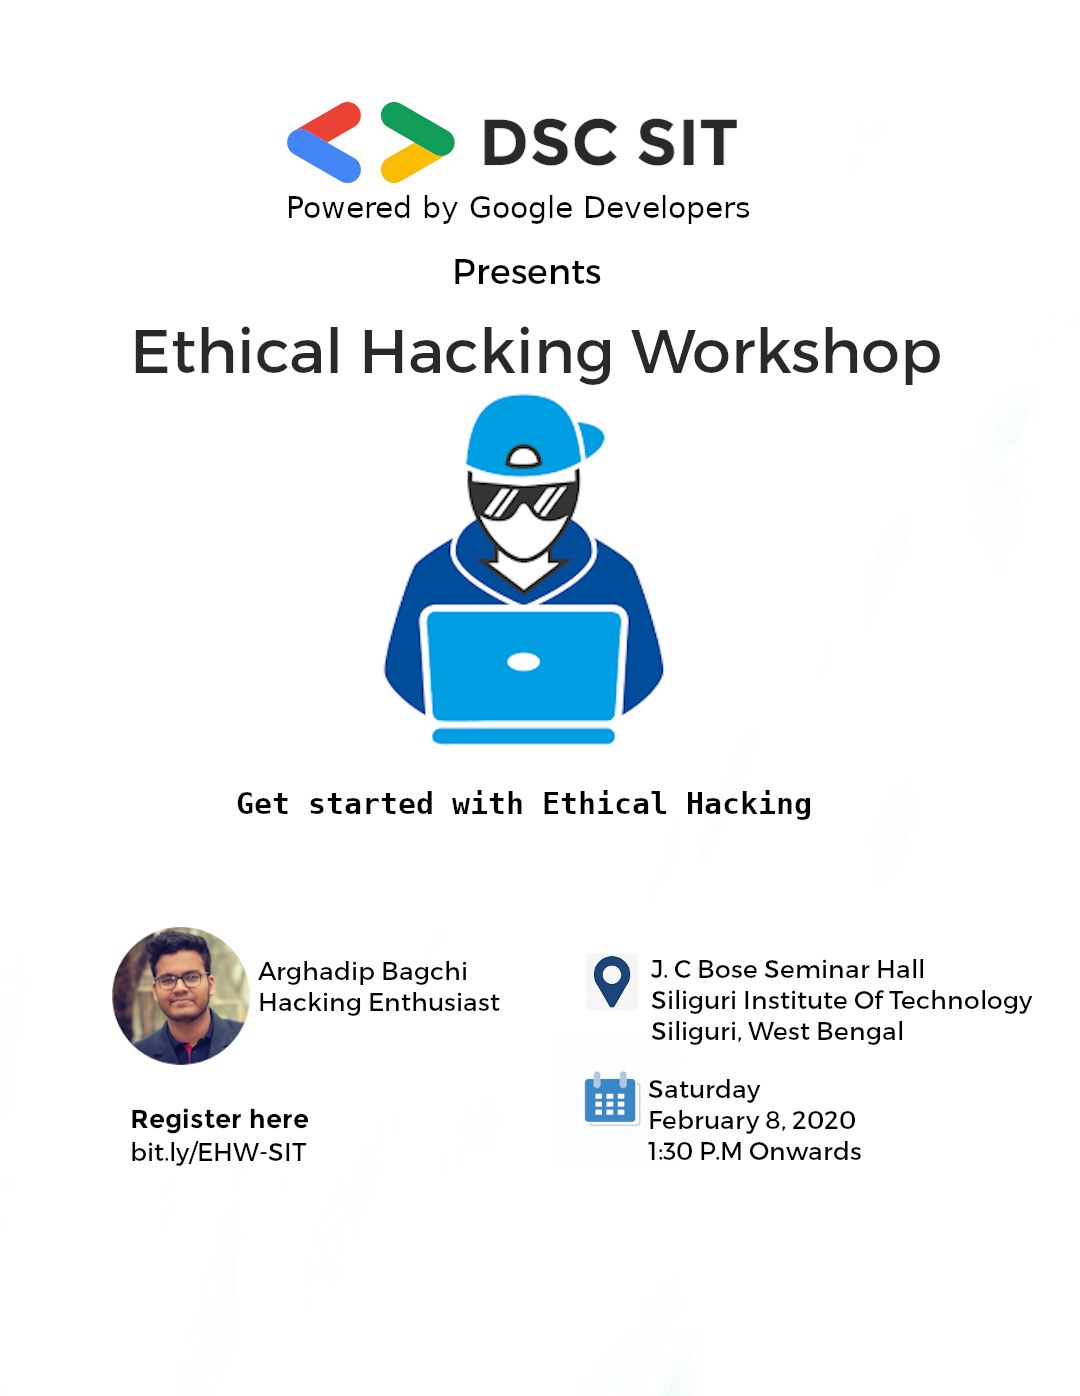
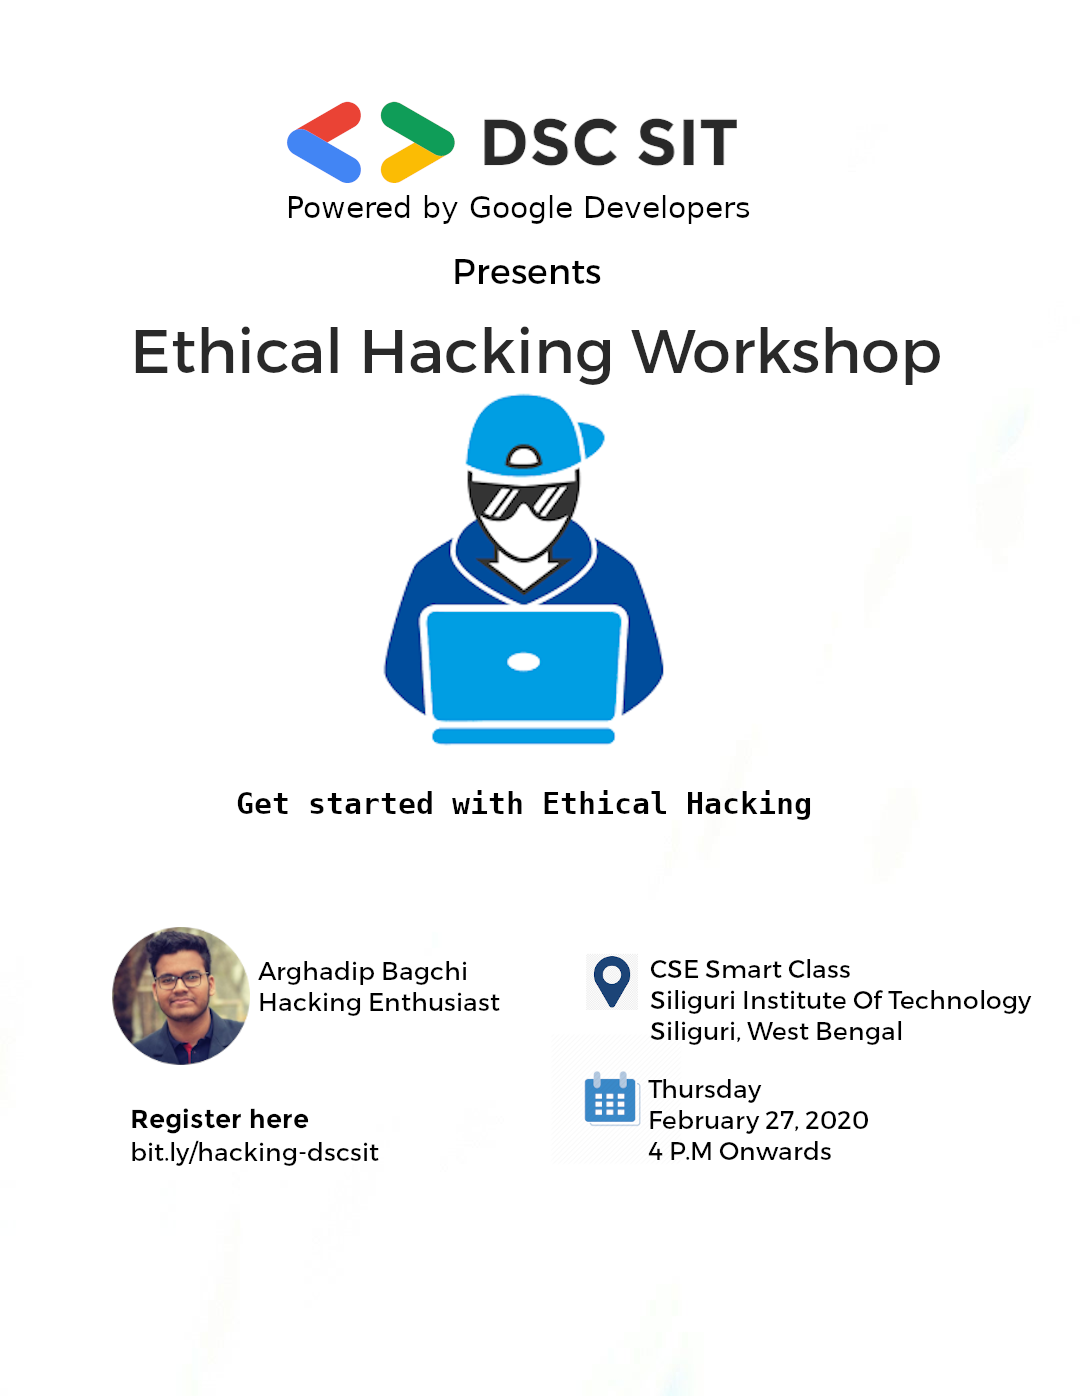
hack.html modified

Changed region(s): [[0.6111, 0.6777, 0.9472, 0.8317], [0.1833, 0.8009, 0.3361, 0.8317]]

diff --git a/events.html b/events.html
@@ -216,36 +216,25 @@
 
                   <br>
 
-
-				<h5>Ethical <strong>Hacking</strong></h5>
-                  <h6 style="color: grey;"><strong>{Postponed}</strong></h6>
+				  <h5>Ethical <strong>Hacking</strong></h5>
+                  <h6 style="color: grey;"><strong>{27th February}</strong></h6>
                   <button class="btn waves-effect green darken-3"><a href="hack.html" class="white-text">Go to the event's page</a></button>
-                  <br><br>
+                  <br><br>	 
 
-
-
-				<h5>Workshop on <strong>Cryptography</strong></h5>
-                  <h6 style="color: grey;"><strong>{21st February}</strong></h6>
-                  <button class="btn waves-effect green darken-3"><a href="crypto.html" class="white-text">Go to the event's page</a></button>
-                  <br><br>
-				 
-
-				<h5>DSC Solution <strong>Challenge</strong></h5>
+				  <h5>DSC Solution <strong>Challenge</strong></h5>
                   <h6 style="color: grey;"><strong>{15th March to 30th March}</strong></h6>
                   <button class="btn waves-effect green darken-3"><a href="dscsol.html" class="white-text">Go to the event's page</a></button>
                   <br><br>
-
-
-
-
-
-
-
 
 				   <svg style="height: 20px; width:500px;">
   			        	<line x1="0" y1="10" x2="355" y2="10" style="stroke:rgb(0,0,255);stroke-width:4" />
  
                   <h6 style="color: red;"><strong> PAST EVENTS</strong> </h6>
+
+				  <h5>Workshop on <strong>Cryptography</strong></h5>
+                  <h6 style="color: grey;"><strong>{21st February}</strong></h6>
+                  <button class="btn waves-effect green darken-3"><a href="crypto.html" class="white-text">Go to the event's page</a></button>
+                  <br><br>
 
                   <h5>Linux and System Administration <strong></strong></h5>
                   <h6 style="color: grey;"><strong>{16th February}</strong></h6>
